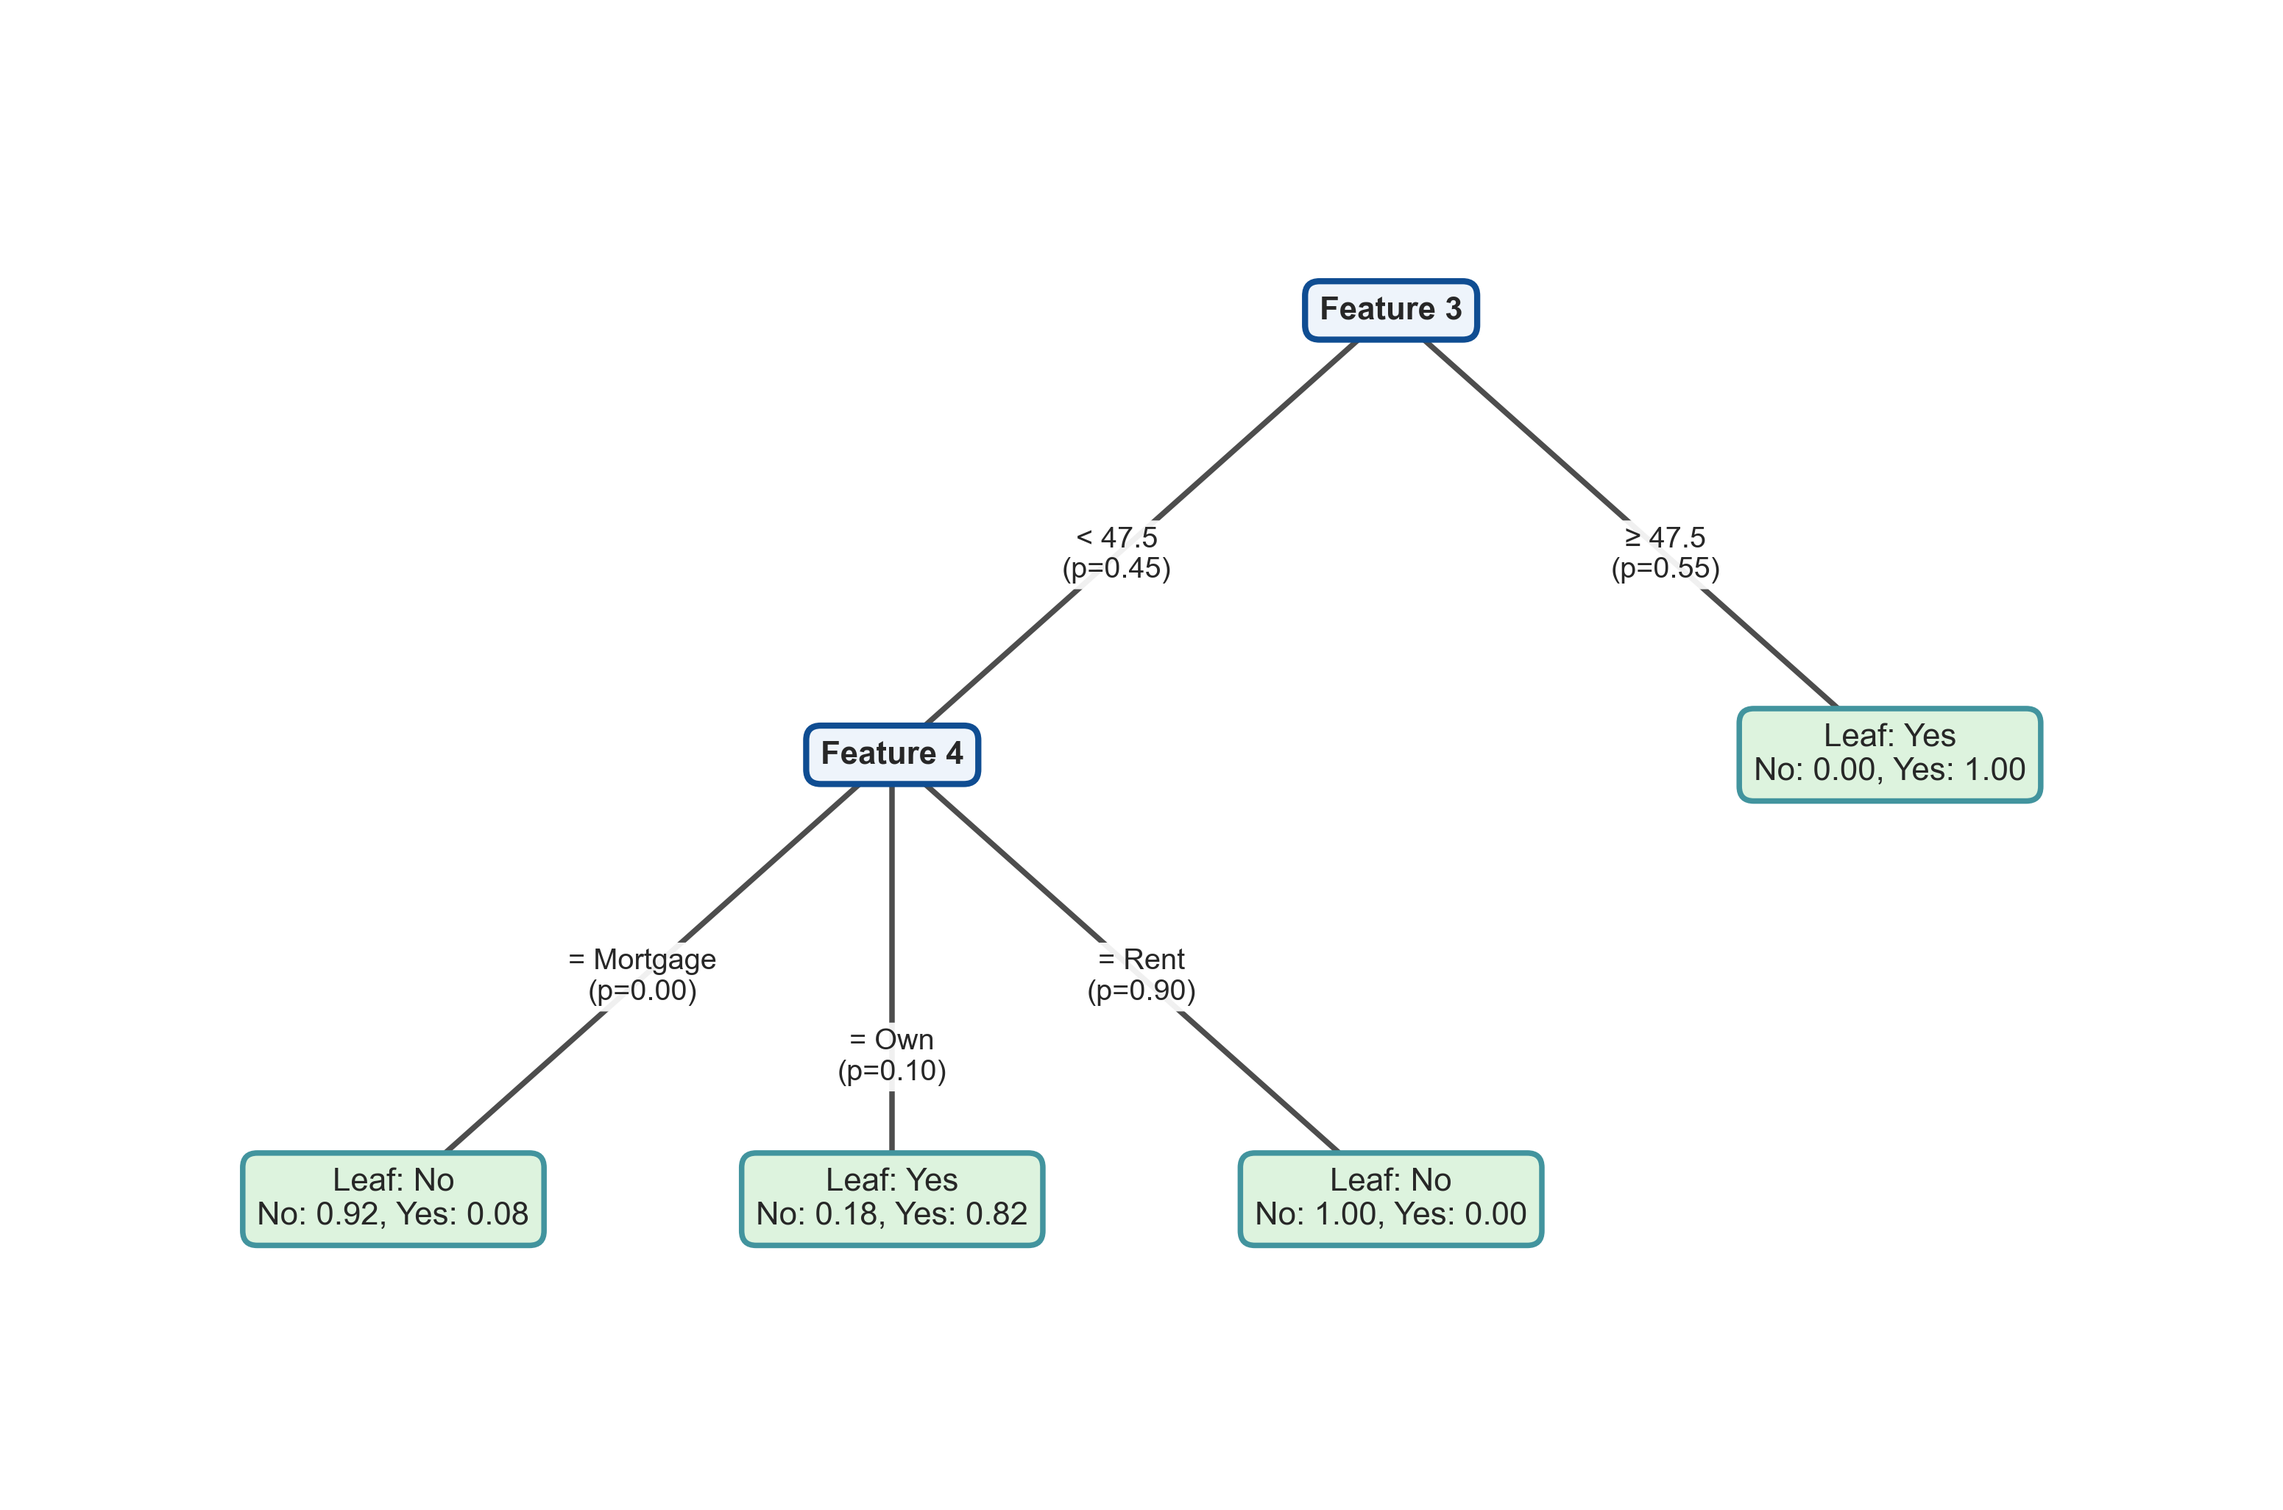
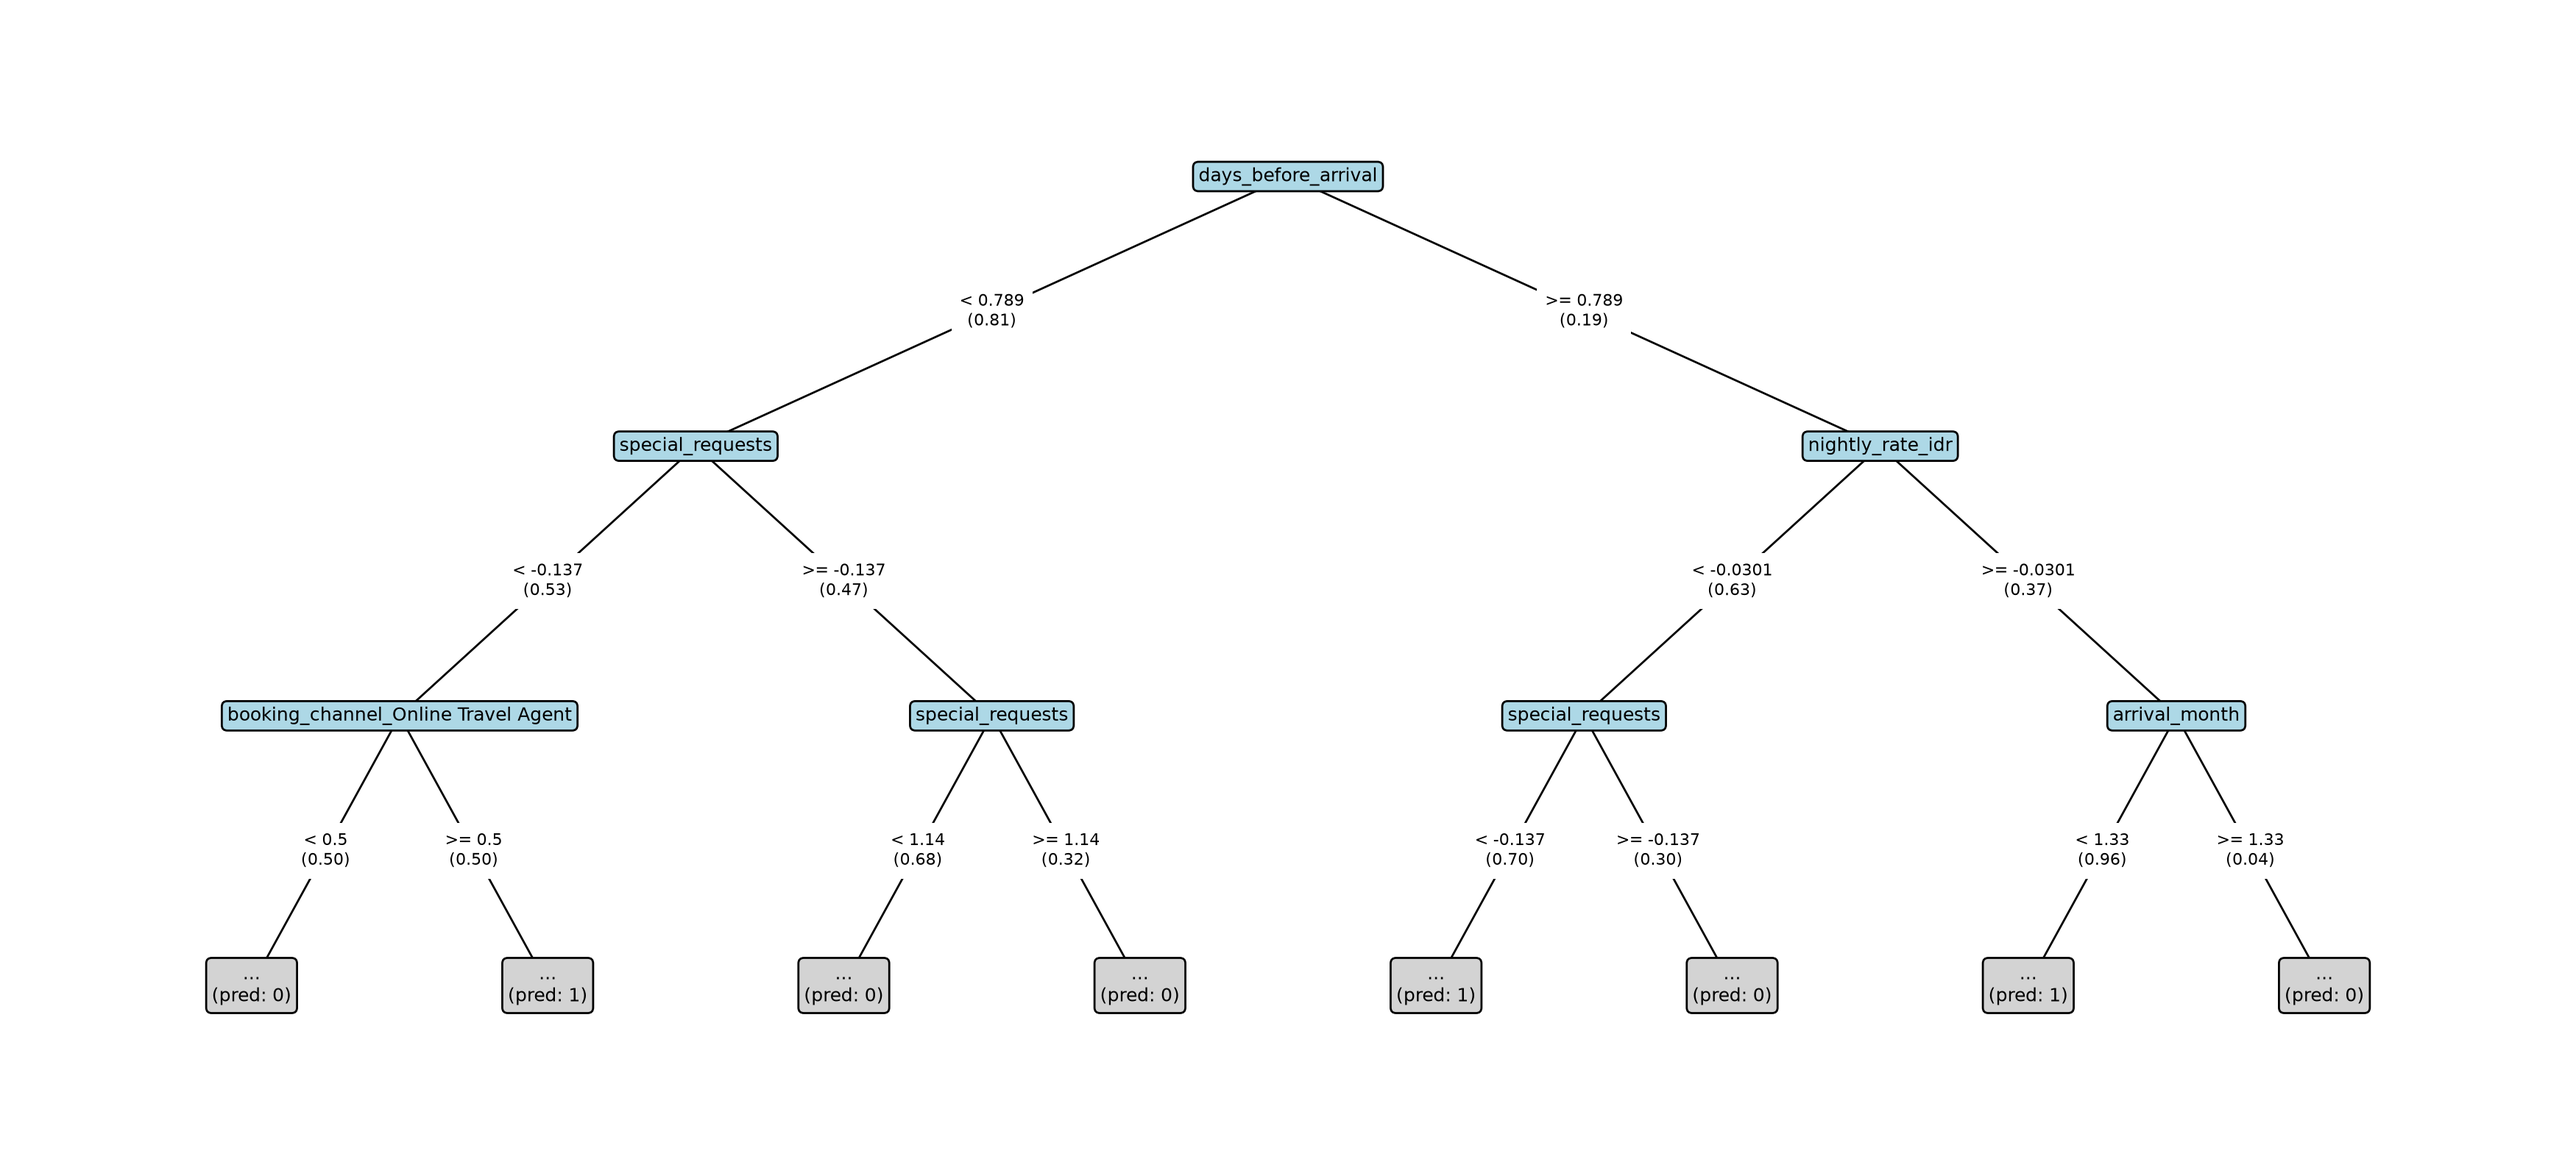
fix: adjusted decision tree visualizer to accomodate top-N parameter

diff --git a/src/models/decision_tree.py b/src/models/decision_tree.py
@@ -53,10 +53,12 @@ class DecisionTree(BaseModel):
         self.root = None
         self.classes = None
         self.categories = {}
+        self.feature_names = None
 
     def fit(self, X, y):
 
         # Convert categorical_features to indices
+        self.feature_names = list(X.columns) if hasattr(X, 'columns') else None
         if hasattr(X, 'columns') and self.categorical_features:
             col_list = list(X.columns)
             self.categorical_features = [
@@ -513,135 +515,75 @@ class DecisionTree(BaseModel):
 
         return result
 
-    def visualize_tree(self, filename="decision_tree", save_to_file=False):
-            if self.root is None:
-                raise ValueError("Model has not been fitted yet.")
-    
-            positions = {}
-            num_leaves, max_depth = self._compute_tree_layout(self.root, positions=positions)
-    
-            fig_width = max(8.0, num_leaves * 2.6)
-            fig_height = max(5.0, (max_depth + 1) * 2.3)
-    
-            rc_style = {
-                "font.family": ["Arial", "sans-serif"],
-                "font.size": 11,
-                "axes.spines.right": False,
-                "axes.spines.top": False,
-                "axes.linewidth": 2.0,
-                "legend.frameon": False,
-                "svg.fonttype": "none",
-            }
-    
-            with plt.rc_context(rc_style):
-                fig, ax = plt.subplots(figsize=(fig_width, fig_height))
-                ax.set_axis_off()
-                ax.set_xlim(-0.7, max(0.7, (num_leaves - 1) + 0.7))
-                ax.set_ylim(-0.6, max(0.6, max_depth + 0.6))
-    
-                self._draw_tree_nodes(ax, self.root, positions, max_depth)
-                fig.tight_layout(pad=1.5)
-    
-                if save_to_file:
-                    base, ext = os.path.splitext(filename)
-                    parent_dir = os.path.dirname(filename)
-                    if parent_dir:
-                        os.makedirs(parent_dir, exist_ok=True)
-    
-                    if ext:
-                        fig.savefig(filename, dpi=300, bbox_inches="tight", pad_inches=0.2)
-                        if ext.lower() != ".png":
-                            fig.savefig(f"{base}.png", dpi=300, bbox_inches="tight", pad_inches=0.2)
-                    else:
-                        fig.savefig(f"{base}.png", dpi=300, bbox_inches="tight", pad_inches=0.2)
-    
-                plt.close(fig)
-                return fig
-
-    def _compute_tree_layout(self, node, depth=0, next_leaf_x=0, positions=None):
-        if positions is None:
-            positions = {}
-
+    def _subtree_probs(self, node):
         if node.is_leaf or not node.children:
-            positions[id(node)] = (float(next_leaf_x), depth)
-            return next_leaf_x + 1, depth
+            return np.asarray(node.probs, dtype=np.float64)
+        probs = np.zeros(len(self.classes), dtype=np.float64)
+        for key, child in node.children.items():
+            p = (node.children_probs or {}).get(key, 0.0)
+            if p > 0.0:
+                probs += p * self._subtree_probs(child)
+        total = probs.sum()
+        return probs / total if total > 0 else probs
 
-        child_xs = []
-        max_depth = depth
-        for child_node in node.children.values():
-            next_leaf_x, child_max_depth = self._compute_tree_layout(
-                child_node, depth + 1, next_leaf_x, positions
-            )
-            child_xs.append(positions[id(child_node)][0])
-            max_depth = max(max_depth, child_max_depth)
+    def visualize_tree(self, filename="decision_tree.png", save_to_file=False, top_n=None, feature_names=None):
+        """Plot the decision tree up to `top_n` branching levels using matplotlib."""
+        if self.root is None:
+            raise ValueError("Model has not been fitted yet.")
+        if top_n is not None and (isinstance(top_n, bool) or not isinstance(top_n, (int, np.integer)) or top_n < 0):
+            raise ValueError("top_n must be a non-negative integer or None.")
 
-        positions[id(node)] = (0.5 * (child_xs[0] + child_xs[-1]), depth)
-        return next_leaf_x, max_depth
+        names = feature_names if feature_names is not None else getattr(self, "feature_names", None)
+        pos, next_x, max_d = {}, [0.0], [0]
 
-    def _format_leaf_label(self, node):
-        if self.classes is not None and node.probs is not None:
-            prob_parts = [f"{cls}: {prob:.2f}" for cls, prob in zip(self.classes, node.probs)]
-            lines = [", ".join(prob_parts[i:i + 2]) for i in range(0, len(prob_parts), 2)]
-            return f"Leaf: {node.value}\n" + "\n".join(lines)
-        return f"Leaf: {node.value}"
+        def layout(node, d=0):
+            max_d[0] = max(max_d[0], d)
+            if node.is_leaf or not node.children or (top_n is not None and d >= top_n):
+                pos[id(node)] = (next_x[0], d)
+                next_x[0] += 1.0
+                return pos[id(node)][0]
+            xs = [layout(c, d + 1) for c in node.children.values()]
+            pos[id(node)] = (0.5 * (xs[0] + xs[-1]), d)
+            return pos[id(node)][0]
 
-    @staticmethod
-    def _format_edge_label(node, child_key):
-        prob = node.children_probs[child_key]
-        if node.threshold is not None:
-            op = "<" if child_key == "left" else "≥"
-            cond = f"{op} {node.threshold:.4g}"
-        else:
-            cond = f"= {child_key}"
-        return f"{cond}\n(p={prob:.2f})"
+        layout(self.root)
+        n_leaves, max_depth = max(1, int(next_x[0])), max_d[0]
+        fig, ax = plt.subplots(figsize=(max(6, n_leaves * 2.2), max(4, (max_depth + 1) * 2.0)))
+        ax.set_axis_off()
 
-    def _draw_tree_nodes(self, ax, node, positions, max_depth):
-        nx, ndepth = positions[id(node)]
-        ny = max_depth - ndepth
+        def draw(node, d=0):
+            x, y = pos[id(node)][0], max_depth - d
+            truncated = not node.is_leaf and bool(node.children) and top_n is not None and d >= top_n
+            if not node.is_leaf and node.children and not truncated:
+                n_ch = len(node.children)
+                for i, (key, child) in enumerate(node.children.items()):
+                    cx, cy = pos[id(child)][0], max_depth - (d + 1)
+                    ax.plot([x, cx], [y, cy], "k-", lw=1)
+                    t = 0.5 if n_ch <= 2 else (0.45 if i % 2 == 0 else 0.65)
+                    cond = f"{'<' if key == 'left' else '>='} {node.threshold:.3g}" if node.threshold is not None else f"= {key}"
+                    ax.text(x + t * (cx - x), y + t * (cy - y), f"{cond}\n({node.children_probs[key]:.2f})",
+                            ha="center", va="center", fontsize=8, bbox=dict(fc="white", ec="none"))
+                    draw(child, d + 1)
 
-        if not node.is_leaf and node.children:
-            num_children = len(node.children)
-            for idx, (child_key, child_node) in enumerate(node.children.items()):
-                cx, cdepth = positions[id(child_node)]
-                cy = max_depth - cdepth
+            if node.is_leaf or not node.children:
+                lbl, fc = f"Leaf: {node.value}", "lightgreen"
+            elif truncated:
+                pred = self.classes[int(np.argmax(self._subtree_probs(node)))]
+                lbl, fc = f"...\n(pred: {pred})", "lightgray"
+            else:
+                feat = names[node.feature] if names is not None and node.feature < len(names) else f"Feature {node.feature}"
+                lbl, fc = feat, "lightblue"
+            ax.text(x, y, lbl, ha="center", va="center", fontsize=9, bbox=dict(boxstyle="round", fc=fc, ec="black"))
 
-                ax.plot([nx, cx], [ny, cy], color="#4D4D4D", linewidth=1.8, zorder=1)
-                
-                t = 0.55 if num_children <= 2 else (0.50 if idx % 2 == 0 else 0.68)
-                lx = nx + t * (cx - nx)
-                ly = ny + t * (cy - ny)
-                ax.text(
-                    lx,
-                    ly,
-                    self._format_edge_label(node, child_key),
-                    ha="center",
-                    va="center",
-                    fontsize=9.5,
-                    color="#272727",
-                    bbox=dict(boxstyle="round,pad=0.2", facecolor="white", edgecolor="none", alpha=0.92),
-                    zorder=2,
-                )
-
-                self._draw_tree_nodes(ax, child_node, positions, max_depth)
-
-        if node.is_leaf:
-            label = self._format_leaf_label(node)
-            bbox = dict(boxstyle="round,pad=0.45", facecolor="#DDF3DE", edgecolor="#42949E", linewidth=1.8)
-            weight = "normal"
-        else:
-            label = f"Feature {node.feature}"
-            bbox = dict(boxstyle="round,pad=0.45", facecolor="#EEF4FB", edgecolor="#0F4D92", linewidth=2.0)
-            weight = "bold"
-
-        ax.text(
-            nx,
-            ny,
-            label,
-            ha="center",
-            va="center",
-            fontsize=10.5,
-            fontweight=weight,
-            color="#272727",
-            bbox=bbox,
-            zorder=3,
-        )
+        draw(self.root)
+        ax.set_xlim(-0.8, max(0.8, n_leaves - 0.2))
+        ax.set_ylim(-0.6, max_depth + 0.6)
+        plt.tight_layout()
+        if save_to_file:
+            if not os.path.splitext(filename)[1]:
+                filename += ".png"
+            if parent := os.path.dirname(filename):
+                os.makedirs(parent, exist_ok=True)
+            fig.savefig(filename, dpi=200, bbox_inches="tight")
+        plt.close(fig)
+        return fig
